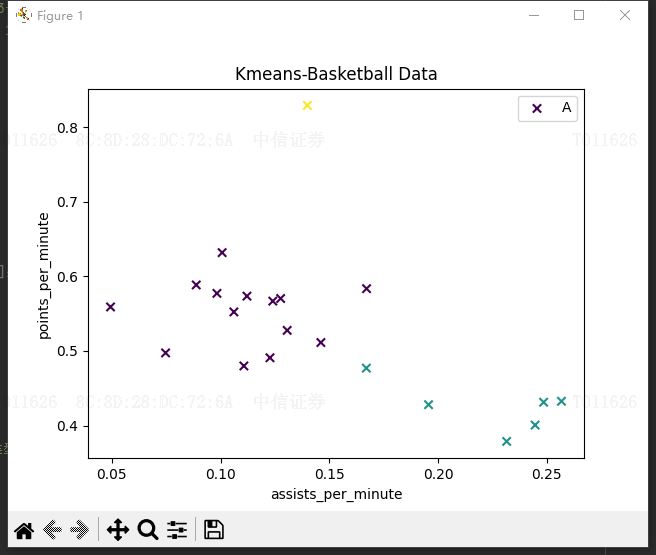
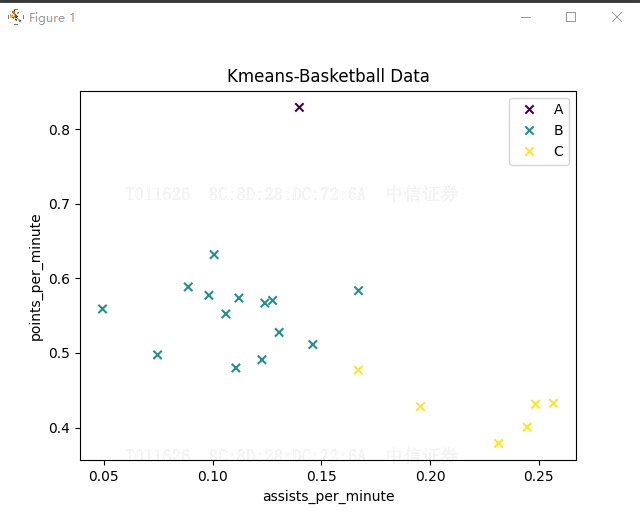
2024-06-14 k-means 聚类算法

diff --git a/22-李朋举/week6/K-Means_athlete.py b/22-李朋举/week6/K-Means_athlete.py
@@ -93,13 +93,20 @@ print(y)
 绘制散点图 
 参数：x横轴; y纵轴; c=y_pred聚类预测结果; marker类型:o表示圆点,*表示星型,x表示点;
 '''
-plt.scatter(x, y, c=y_pred, marker='x')
+# plt.scatter(x, y, c=y_pred, marker='x')
+scatter = plt.scatter(x, y, c=y_pred, marker='x')
+
 # 绘制标题
 plt.title("Kmeans-Basketball Data")
 # 绘制x轴和y轴坐标
 plt.xlabel("assists_per_minute")
 plt.ylabel("points_per_minute")
 # 设置右上角图例
-plt.legend(["A", "B", "C"])
+# plt.legend(["A", "B", "C"])
+'''
+将散点图的第一个图例元素添加到图例中，并为其指定标签为"A"、"B"和"C"。
+scatter.legend_elements()返回一个包含散点图所有图例元素的列表，索引从 0 开始, 因此，handles=scatter.legend_elements()[0]表示将散点图的第一个图例元素添加到图例中。
+'''
+plt.legend(handles=scatter.legend_elements()[0], labels=["A", "B", "C"])  # matplotlib3.1.2可用
 # 显示图形
 plt.show()
